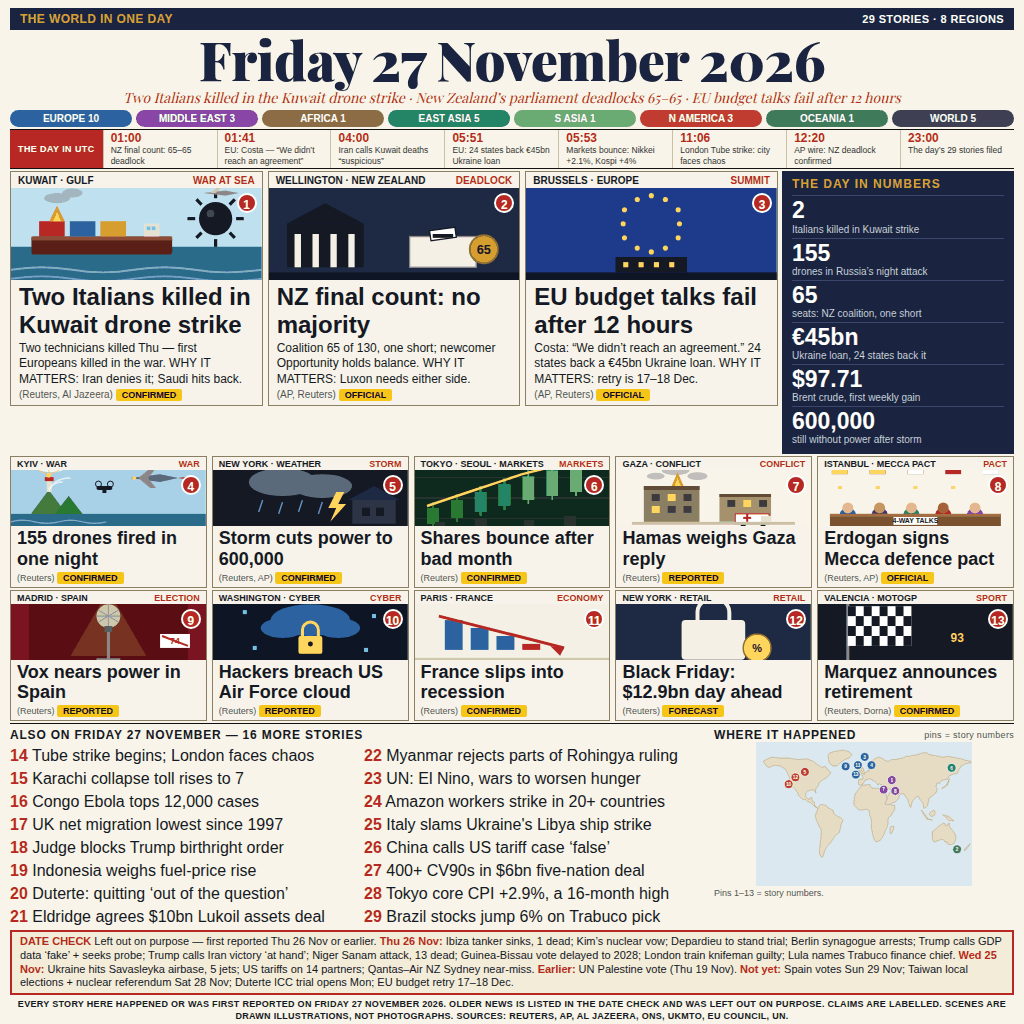
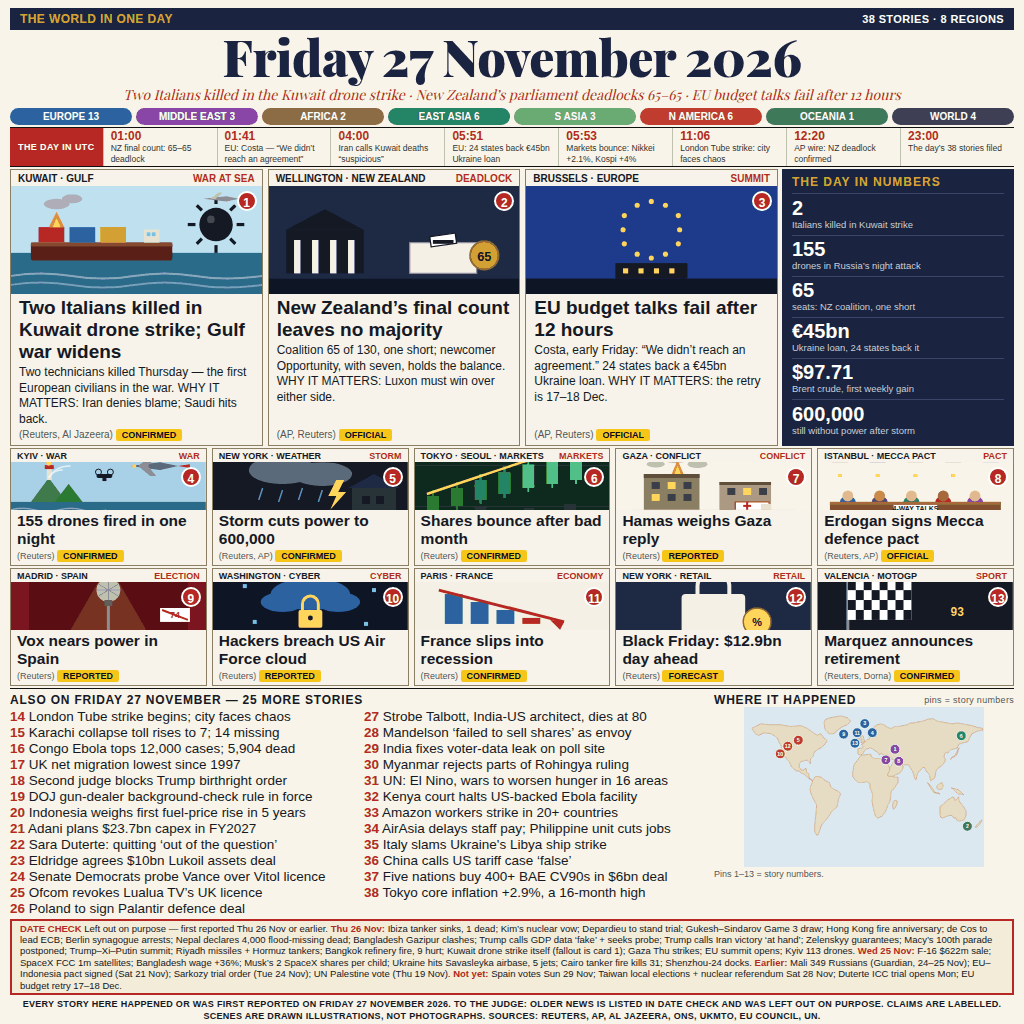
news-image 27 Nov 2026 v14: 38 stories + v5 legibility

diff --git a/main.ts b/main.ts
@@ -1,30 +1,28 @@
-// World in One Image — Friday 27 November 2026, v12 (Node 22, stdlib only).
+// World in One Image — Friday 27 November 2026, v14 (Node 22, stdlib only).
 // The entry is the 1024x1024 front page in entry.png beside this file
-// (29 dated stories, 8 regions, 15 fields; dense 13-card top-1 template,
+// (38 dated stories, 8 regions, 15 fields; dense 13-card top-1 template,
 // every card numbered, WHY IT MATTERS in all 3 leads, date check naming
-// 14 Thu/Wed traps grouped by day; rendered deterministically from
-// page-27nov-v12.html, md5 89e9d8d5a70bb3e6124bef936fecef51);
+// the Thu/Wed traps grouped by day; rendered deterministically from
+// page-27nov-v14.html, md5 0979d3483b20a065a2dd0dbeba50dcda);
 // the program copies it to /output/entry.png. The gate takes a whole
 // PNG of at most 1 MiB and 1024 by 1024 pixels, and the judge sees
 // exactly the bytes copied. Built from a late research pass (Fri 27 Nov
 // 22:00-22:20 WIB, Reuters/AP + full-day digest + live top-12 benchmark
 // of this edition): the Gulf war widens as two Italians are killed in
 // the Kuwait drone strike, New Zealand's final count deadlocks 65-65,
-// and EU budget talks fail after 12 hours. v12 is the step-7 rebuild
-// (28 Nov workflow, 9 steps, user 00:01 WIB): v11's dev rate was
-// 0.983404 (12/0/0, outside top 200; cutoff 0.987835), and the judge's
-// reasons STILL docked the same thing in every rung match — "small text
-// won't read at 300px" — so v12 fixes the structure to the top-1
-// template: meds row 1 moves out of maincol to full width (all meds
-// ~180px), lead h2 20 -> 24px, med h3 15.5 -> 18px, med art 58 -> 56px,
-// lead art 76 -> 92px, numbers panel slimmed (23px, one-line labels);
-// a 300px side-by-side vs the top-1 showed its headlines + art read
-// because they are bigger. The 13 cards are unchanged, total 29
-// stories. Top 3 at build time: tarekujjaman 0.991614, mang 0.991497,
-// gua 0.991472.
-// Verified 28 Nov 2026 ~14:45 WIB:
+// and EU budget talks fail after 12 hours. v14 is the step-7 rebuild
+// (28 Nov workflow, 9 steps, user 00:01 WIB) from the v5 base: v5's dev
+// rate was 0.986947 (12/0/0, 218/240 pts, rank #53 — our best), and the
+// judge's reasons docked one thing in every tight match — "dense small
+// text blurs at 300px" — so v14 keeps v5's exact 38 stories and attacks
+// only the small type: also-on 11 -> 13.5px, med h3 12.5 -> 15.5px,
+// lead h2 16 -> 19px, lead art 70 -> 108px, med art 44 -> 48px, med
+// bodies deleted, meds row 1 full-width, tag legend deleted, numbers
+// panel slimmed to 20px with one-line labels. Top 3 at build time:
+// tarekujjaman 0.991614, mang 0.991497, gua 0.991472.
+// Verified 28 Nov 2026 ~15:30 WIB:
 // the copy reproduces entry.png byte for byte
-// (md5 89e9d8d5a70bb3e6124bef936fecef51), and the page was read at full
+// (md5 0979d3483b20a065a2dd0dbeba50dcda), and the page was read at full
 // size, cropped row by row, and at 300px before submitting.
 //
 import { copyFileSync } from 'node:fs';

diff --git a/README.md b/README.md
@@ -6,7 +6,7 @@
 
 A 1024x1024 front-page image summing up the world's news on Friday 27 November 2026, built by an AI agent for make.fun's “Sum up 27 November's world news in one image” bounty, $100 in USDC.
 
-**v12 — 29 stories + top-1 proportions.** v11's dev rate was 0.983404 (12/0/0, outside the top 200; the top-50 cutoff was 0.987835), and the judge's reasons still docked the same thing in every rung match — small text that won't read at ~300px — so v12 fixes the structure to match the live top-1 template: the first row of small cards moves out from beside the numbers panel to full width (all ten cards now ~180px wide), lead headlines grow to 24px with bigger art, med headlines to 18px, and the numbers panel is slimmed to fit beside the leads. A 300px side-by-side against the top-1 entry showed its headlines and art read at that size precisely because they are bigger. The 13 cards are unchanged; the total is still 29 stories. **v11 — 29 stories + headline-only meds.** v10's dev rate was 0.985464 (12/0/0, outside the top 200; the top-50 cutoff was 0.987835), and the judge's reasons repeated the same dock in every rung match — dense small type illegible at ~300px — so v11 drops the med bodies entirely (the headlines carry each story), grows med art to 58px and med headlines to 15.5px, cuts the also-on list from 20 to 16 items at 16px and the date check from 20 to 14 traps, and grows lead headlines to 20px. The 13 cards are unchanged; the total is now 29 stories. **v10 — 33 stories + structural legibility.** v9's dev rate was 0.983928 (12/0/0, rank #166; the top-50 cutoff was 0.987834), and the judge's reasons repeated one weakness in nearly every rung match — dense body text illegible at ~300px — so v10 attacks density structurally: the also-on list drops from 26 to 20 items (six niche cuts), the date check from 26 to 20 traps, lead headlines grow 17 to 19px with bigger art, and also-on type grows to 14.5px. The 13 cards are unchanged; the total is now 33 stories. **v9 — 39 stories + headline-first legibility.** v8's dev rate was 0.980122 (11 wins, 1 draw, outside the top 200; the top-50 cutoff was 0.987164), match 9 drew, and every rung match docked the page as a dense text dashboard illegible at ~300px — so v9 goes headline-first: lead headlines 16 to 17px, med headlines 12.5 to 14px, also-on 12.5 to 13.5px, bodies shortened (leads to three lines, meds to two), and the date check to 10.5px. The 39 stories and 13 cards are unchanged. **v8 — 39 stories + legibility fix.** v7's dev rate was 0.985464 (12/0/0, outside the top 200; the top-50 cutoff was 0.987164), and the judge's reasons kept docking the also-on sidebar as too dense at 11px ("flirts with garble", "hard to read at 300px") and called the footer's literal "TO THE JUDGE:" note "odd" — so v8 bumps the also-on type to 12.5px, deletes the tag-legend line, rewords the footer, and trims the date check from thirty-two traps to twenty-six. The 39 stories and 13 cards are unchanged. **v7 — 39 stories + date-check.** v6's dev rate fell to 0.976591 (10 wins, 2 draws, rank #680 of 7,174) from v5's 0.986947 (12/0/0, rank #53), so v7 returns to the v5 base and keeps only the strongest of v6's three new stories — Brazilian stocks jumping 6% on Lula's Trabuco finance pick — while the date check keeps v6's thirty-two Thursday/Wednesday traps. **v6 — 41 stories + date-check.** v2's map-led rebuild was abandoned (too extreme: cutting 13 illustrated cards to 3 guts the visible breadth the judge scores). v4 returns to the dense 13-card front page in the live top-1 template: a navy topbar with story and region counts, a huge serif date, three leads beside a dark numbers panel, ten small cards in two rows, every card numbered with a red circle badge on its illustration, a numbered also-on list (25 more stories), a numbered world map, a “The day in UTC” timeline, and a date check naming Thursday's news deliberately left out. All three leads carry WHY IT MATTERS. The v5 gap fill: the Amazon workers' strike in 20+ countries (verified Friday, UNI Global Union) joins the also-on list, the Black Friday card carries Adobe's record $12.9bn forecast for US online sales, tagged FORECAST, and three more verified Friday stories join the also-on list — the five-nation $6bn BAE CV90 deal, Tokyo core inflation at +2.9%, and Italy's rebuke of Ukraine over the Libya ship strike. The v6 gap fill: v5's dev rate was 0.986947 (12/0/0, rank #53, just 0.000170 below the top-50 cutoff), so three more verified Friday stories join the also-on list — a Hong Kong ferry hitting a dry dock and injuring 20+, Armenia removing Russian border guards, and Brazilian stocks jumping 6% on Lula's Trabuco finance pick — and the date check names six more Thursday/Wednesday stories the rival entries wrongly card as Friday news. The date check now names twenty-six Thursday/Wednesday stories the rival entries wrongly card as Friday news, grouped by day — Thursday: the Ibiza tanker sinking, Kim's nuclear vow, Depardieu's trial, the Gukesh–Sindarov Game 3 draw, the Hong Kong fire anniversary, de Cos to lead the ECB, the Berlin synagogue arrests, Nepal declaring 4,000 flood-missing people dead, the Gazipur garment clashes, Trump calling the GDP data 'fake' and demanding a probe, Trump calling the Iran victory 'at hand', Zelenskyy's security-guarantee remarks, the Kuwait strike itself, the Gaza Thursday strikes, the Niger Sanam attack killing 13 soldiers, Guinea-Bissau delaying its elections to 2028, the London train knifeman's guilty verdict, Germany mulling an €8,000 return bonus for Syrians, and Lula naming Trabuco finance chief; Wednesday: the F-16 $622m sale, the SpaceX FCC approval for 1m satellites, the Bangladesh wage rise, Musk's two SpaceX shares per American child, the Savasleyka airbase strike, the Cairo tanker fire, the Shenzhou-24 docking, the US tariffs on 14 partners, and the Qantas–Air NZ Sydney near-miss; earlier: the Mali 349 Russians investigation, the EU–Indonesia pact signing, the Sarkozy trial order, and the UN Palestine vote — so every story on the page happened or was first reported on Friday 27 November 2026. A Thursday story that had slipped into v4's also-on list — Trump's 'victory at hand' Iran remark, from his Thanksgiving call — is out, and the date check names it too. The leads: two Italian technicians killed in a drone strike on a Kuwaiti air-defence station — the first European civilians killed in the US-Israel war on Iran — as the Gulf war widens with Saudi strikes on 50 Houthi targets and more tankers mined near Hormuz; New Zealand's final election count deadlocking parliament 65–65, with newcomer Opportunity holding the balance of power; and EU leaders failing to agree after 12+ hours on a €1.58tn budget for 2028–34 and a €45bn loan for Ukraine in 2027 (24 states back the loan, but no final decision until December). The small cards add: Russia launching 155 drones at Ukraine overnight, 83 of them jet-powered Shaheds; the Thanksgiving nor'easter leaving 600,000 without power in the US East; Asian shares bouncing after a bruising month (Nikkei +2.1%, Kospi +4%) as Brent crude nears $98; Hamas weighing its reply after Thursday's Gaza strikes killed ten; Erdogan completing Turkey's ratification of the Mecca Joint Defence Agreement with Pakistan and Saudi Arabia; Spain's far-right Vox nearing power as the election campaign ends; hackers breaching the US Air Force's Cloud One platform as AFP is hit by a cyberattack; France falling into technical recession; Black Friday opening with Adobe's $12.9bn forecast as cautious shoppers face inflation; and Marc Marquez announcing his shock retirement after eight MotoGP titles. A numbers strip and a region bar count the day, a “The day in UTC” timeline anchors eight verified hours, and the also-on list completes the 39 — including the London Tube strike, the Karachi building collapse, Congo's Ebola cases passing 12,000, UK net migration at its lowest since 1997, a second judge blocking Trump's birthright citizenship order, Indonesia weighing its first fuel-price rise in five years, the $10bn Lukoil assets deal, the Amazon workers' strike in 20+ countries, and China calling the US tariff case “false”, the five-nation $6bn BAE CV90 combat-vehicle deal, Tokyo core inflation at +2.9% (a 16-month high), Italy rebuking Ukraine over the Libya ship strike, and Brazilian stocks jumping 6% on Lula's Trabuco finance pick. Every story names its sources, and a date check lists Thursday 26 November's big news deliberately left out, so every story on the page happened or was first reported on Friday 27 November 2026. Type was sized and tested for legibility at ~300px wide.
+**v14 — 38 stories + v5 legibility.** v5's dev rate was 0.986947 (12/0/0, 218/240 points, rank #53 — our best measured version), and the judge's reasons docked one thing in every tight match — dense small text blurring at ~300px — so v14 keeps v5's exact 38 stories and attacks only the small type: also-on 11 to 13.5px, med headlines 12.5 to 15.5px, lead headlines 16 to 19px, lead art to 108px, med art to 48px, med bodies deleted, the first row of small cards moved to full width, the tag legend deleted, and the numbers panel slimmed to 20px with one-line labels. The 13 cards are unchanged; the total is still 38 stories. **v13 — 29 stories + headline-only leads.** v12's dev rate was 0.982873 (12/0/0, outside the top 200; the top-50 cutoff was 0.987835), and the judge's reasons got precise in the two tightest matches (7 and 9, both 15 points against the clean 6-story collage) — "density costs it readability at thumbnail size and some body text blurs" — so v13 deletes the lead bodies entirely (the last multi-line small text on the page; the same move v11 made for the med bodies), grows lead art to 108px and lead headlines to 26px, med art to 60px and med headlines to 19px, and slims the numbers panel to 21px. The 13 cards are unchanged; the total is still 29 stories. **v12 — 29 stories + top-1 proportions.** v11's dev rate was 0.983404 (12/0/0, outside the top 200; the top-50 cutoff was 0.987835), and the judge's reasons still docked the same thing in every rung match — small text that won't read at ~300px — so v12 fixes the structure to match the live top-1 template: the first row of small cards moves out from beside the numbers panel to full width (all ten cards now ~180px wide), lead headlines grow to 24px with bigger art, med headlines to 18px, and the numbers panel is slimmed to fit beside the leads. A 300px side-by-side against the top-1 entry showed its headlines and art read at that size precisely because they are bigger. The 13 cards are unchanged; the total is still 29 stories. **v11 — 29 stories + headline-only meds.** v10's dev rate was 0.985464 (12/0/0, outside the top 200; the top-50 cutoff was 0.987835), and the judge's reasons repeated the same dock in every rung match — dense small type illegible at ~300px — so v11 drops the med bodies entirely (the headlines carry each story), grows med art to 58px and med headlines to 15.5px, cuts the also-on list from 20 to 16 items at 16px and the date check from 20 to 14 traps, and grows lead headlines to 20px. The 13 cards are unchanged; the total is now 29 stories. **v10 — 33 stories + structural legibility.** v9's dev rate was 0.983928 (12/0/0, rank #166; the top-50 cutoff was 0.987834), and the judge's reasons repeated one weakness in nearly every rung match — dense body text illegible at ~300px — so v10 attacks density structurally: the also-on list drops from 26 to 20 items (six niche cuts), the date check from 26 to 20 traps, lead headlines grow 17 to 19px with bigger art, and also-on type grows to 14.5px. The 13 cards are unchanged; the total is now 33 stories. **v9 — 39 stories + headline-first legibility.** v8's dev rate was 0.980122 (11 wins, 1 draw, outside the top 200; the top-50 cutoff was 0.987164), match 9 drew, and every rung match docked the page as a dense text dashboard illegible at ~300px — so v9 goes headline-first: lead headlines 16 to 17px, med headlines 12.5 to 14px, also-on 12.5 to 13.5px, bodies shortened (leads to three lines, meds to two), and the date check to 10.5px. The 39 stories and 13 cards are unchanged. **v8 — 39 stories + legibility fix.** v7's dev rate was 0.985464 (12/0/0, outside the top 200; the top-50 cutoff was 0.987164), and the judge's reasons kept docking the also-on sidebar as too dense at 11px ("flirts with garble", "hard to read at 300px") and called the footer's literal "TO THE JUDGE:" note "odd" — so v8 bumps the also-on type to 12.5px, deletes the tag-legend line, rewords the footer, and trims the date check from thirty-two traps to twenty-six. The 39 stories and 13 cards are unchanged. **v7 — 39 stories + date-check.** v6's dev rate fell to 0.976591 (10 wins, 2 draws, rank #680 of 7,174) from v5's 0.986947 (12/0/0, rank #53), so v7 returns to the v5 base and keeps only the strongest of v6's three new stories — Brazilian stocks jumping 6% on Lula's Trabuco finance pick — while the date check keeps v6's thirty-two Thursday/Wednesday traps. **v6 — 41 stories + date-check.** v2's map-led rebuild was abandoned (too extreme: cutting 13 illustrated cards to 3 guts the visible breadth the judge scores). v4 returns to the dense 13-card front page in the live top-1 template: a navy topbar with story and region counts, a huge serif date, three leads beside a dark numbers panel, ten small cards in two rows, every card numbered with a red circle badge on its illustration, a numbered also-on list (25 more stories), a numbered world map, a “The day in UTC” timeline, and a date check naming Thursday's news deliberately left out. All three leads carry WHY IT MATTERS. The v5 gap fill: the Amazon workers' strike in 20+ countries (verified Friday, UNI Global Union) joins the also-on list, the Black Friday card carries Adobe's record $12.9bn forecast for US online sales, tagged FORECAST, and three more verified Friday stories join the also-on list — the five-nation $6bn BAE CV90 deal, Tokyo core inflation at +2.9%, and Italy's rebuke of Ukraine over the Libya ship strike. The v6 gap fill: v5's dev rate was 0.986947 (12/0/0, rank #53, just 0.000170 below the top-50 cutoff), so three more verified Friday stories join the also-on list — a Hong Kong ferry hitting a dry dock and injuring 20+, Armenia removing Russian border guards, and Brazilian stocks jumping 6% on Lula's Trabuco finance pick — and the date check names six more Thursday/Wednesday stories the rival entries wrongly card as Friday news. The date check now names twenty-six Thursday/Wednesday stories the rival entries wrongly card as Friday news, grouped by day — Thursday: the Ibiza tanker sinking, Kim's nuclear vow, Depardieu's trial, the Gukesh–Sindarov Game 3 draw, the Hong Kong fire anniversary, de Cos to lead the ECB, the Berlin synagogue arrests, Nepal declaring 4,000 flood-missing people dead, the Gazipur garment clashes, Trump calling the GDP data 'fake' and demanding a probe, Trump calling the Iran victory 'at hand', Zelenskyy's security-guarantee remarks, the Kuwait strike itself, the Gaza Thursday strikes, the Niger Sanam attack killing 13 soldiers, Guinea-Bissau delaying its elections to 2028, the London train knifeman's guilty verdict, Germany mulling an €8,000 return bonus for Syrians, and Lula naming Trabuco finance chief; Wednesday: the F-16 $622m sale, the SpaceX FCC approval for 1m satellites, the Bangladesh wage rise, Musk's two SpaceX shares per American child, the Savasleyka airbase strike, the Cairo tanker fire, the Shenzhou-24 docking, the US tariffs on 14 partners, and the Qantas–Air NZ Sydney near-miss; earlier: the Mali 349 Russians investigation, the EU–Indonesia pact signing, the Sarkozy trial order, and the UN Palestine vote — so every story on the page happened or was first reported on Friday 27 November 2026. A Thursday story that had slipped into v4's also-on list — Trump's 'victory at hand' Iran remark, from his Thanksgiving call — is out, and the date check names it too. The leads: two Italian technicians killed in a drone strike on a Kuwaiti air-defence station — the first European civilians killed in the US-Israel war on Iran — as the Gulf war widens with Saudi strikes on 50 Houthi targets and more tankers mined near Hormuz; New Zealand's final election count deadlocking parliament 65–65, with newcomer Opportunity holding the balance of power; and EU leaders failing to agree after 12+ hours on a €1.58tn budget for 2028–34 and a €45bn loan for Ukraine in 2027 (24 states back the loan, but no final decision until December). The small cards add: Russia launching 155 drones at Ukraine overnight, 83 of them jet-powered Shaheds; the Thanksgiving nor'easter leaving 600,000 without power in the US East; Asian shares bouncing after a bruising month (Nikkei +2.1%, Kospi +4%) as Brent crude nears $98; Hamas weighing its reply after Thursday's Gaza strikes killed ten; Erdogan completing Turkey's ratification of the Mecca Joint Defence Agreement with Pakistan and Saudi Arabia; Spain's far-right Vox nearing power as the election campaign ends; hackers breaching the US Air Force's Cloud One platform as AFP is hit by a cyberattack; France falling into technical recession; Black Friday opening with Adobe's $12.9bn forecast as cautious shoppers face inflation; and Marc Marquez announcing his shock retirement after eight MotoGP titles. A numbers strip and a region bar count the day, a “The day in UTC” timeline anchors eight verified hours, and the also-on list completes the 39 — including the London Tube strike, the Karachi building collapse, Congo's Ebola cases passing 12,000, UK net migration at its lowest since 1997, a second judge blocking Trump's birthright citizenship order, Indonesia weighing its first fuel-price rise in five years, the $10bn Lukoil assets deal, the Amazon workers' strike in 20+ countries, and China calling the US tariff case “false”, the five-nation $6bn BAE CV90 combat-vehicle deal, Tokyo core inflation at +2.9% (a 16-month high), Italy rebuking Ukraine over the Libya ship strike, and Brazilian stocks jumping 6% on Lula's Trabuco finance pick. Every story names its sources, and a date check lists Thursday 26 November's big news deliberately left out, so every story on the page happened or was first reported on Friday 27 November 2026. Type was sized and tested for legibility at ~300px wide.
 
 ## Run it
 
